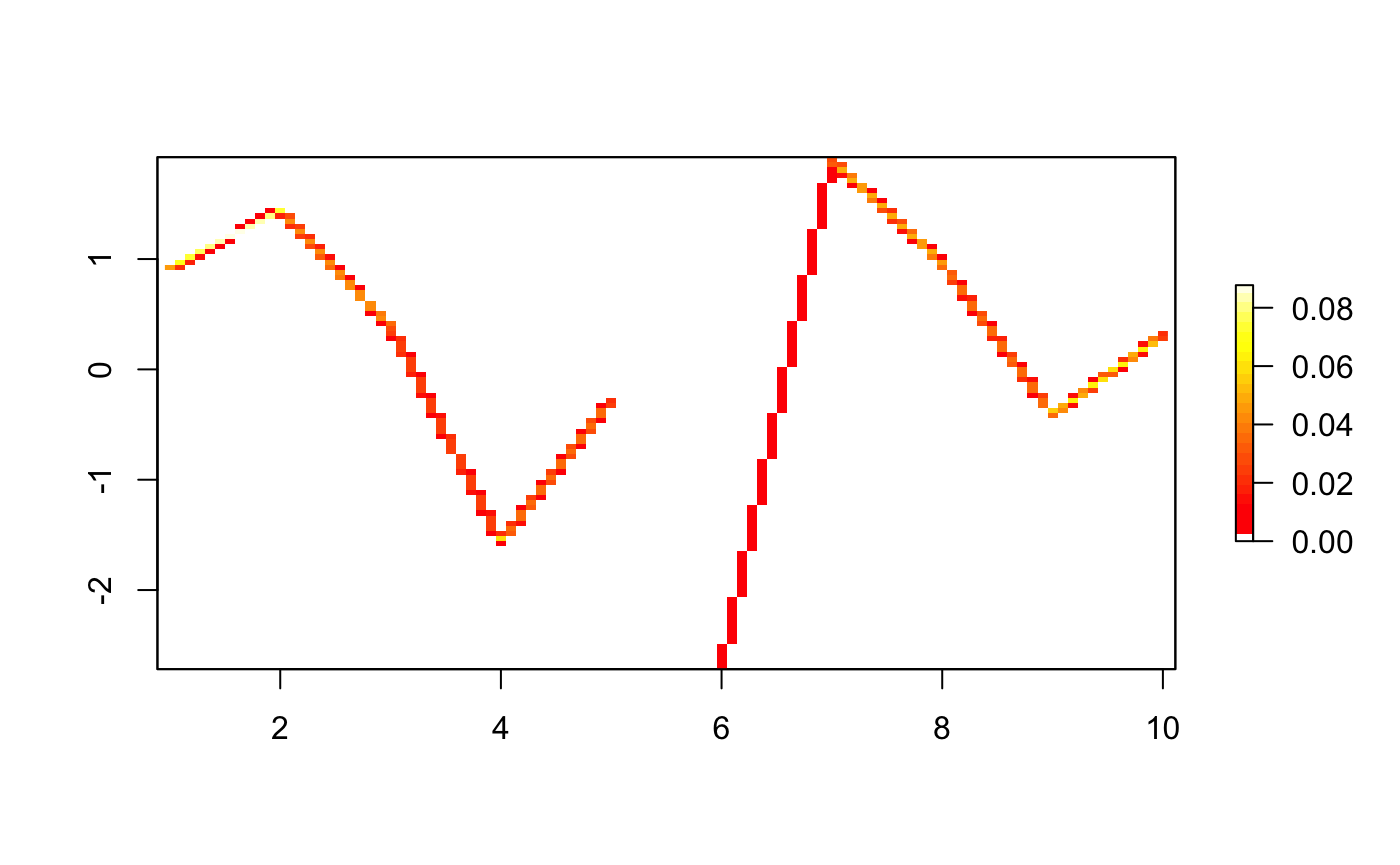
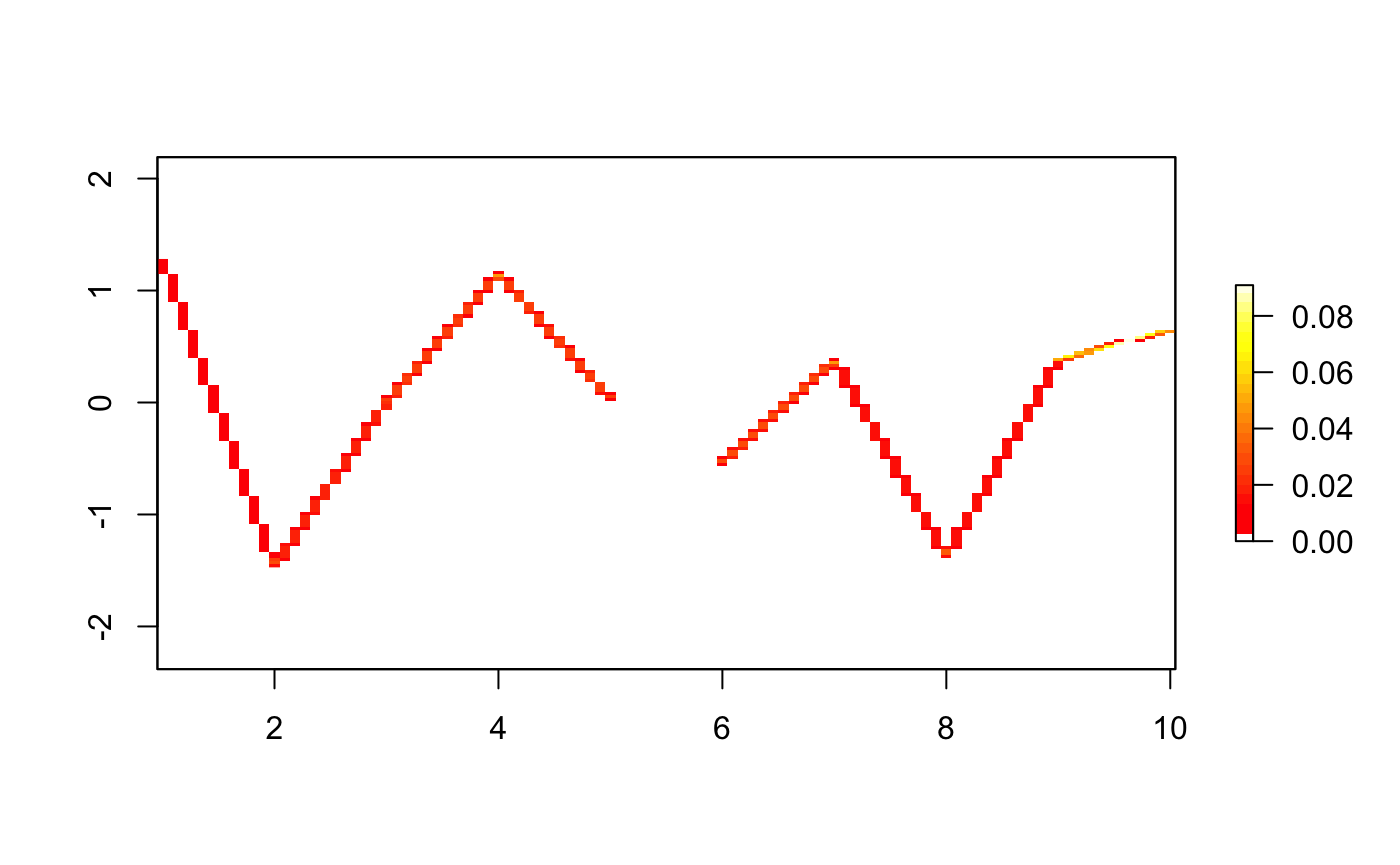
Built site for trip: 1.7.1@7558c05

diff --git a/reference/trip-class.html b/reference/trip-class.html
@@ -182,11 +182,11 @@ contains columns of at least those specified by <code>TOR.columns</code>.</p>
 <span class='fu'><a href='https://rdrr.io/r/base/summary.html'>summary</a></span>(<span class='no'>tr</span>)</div><div class='output co'>#&gt; 
 #&gt; Object of class trip
 #&gt;   tripID ("id") No.Records   startTime ("tms")     endTime ("tms") tripDuration
-#&gt; 1             1          5 2020-06-15 06:46:11 2020-06-15 06:46:15       4 secs
-#&gt; 2             2          5 2020-06-15 06:46:16 2020-06-15 06:46:20       4 secs
+#&gt; 1             1          5 2020-06-15 06:56:35 2020-06-15 06:56:39       4 secs
+#&gt; 2             2          5 2020-06-15 06:56:40 2020-06-15 06:56:44       4 secs
 #&gt;   tripDistance meanSpeed maxSpeed
 #&gt; 1     9.039498  8135.548 11136.84
-#&gt; 2     7.197242  6477.517 10840.37
+#&gt; 2     7.197242  6477.518 10840.37
 #&gt; 
 #&gt; Total trip duration: 8 seconds (0 hours, 8 seconds)
 #&gt; 
@@ -202,36 +202,36 @@ contains columns of at least those specified by <code>TOR.columns</code>.</p>
 #&gt; Number of points: 10
 #&gt; Data attributes:
 #&gt;       tms                      id   
-#&gt;  Min.   :2020-06-15 06:46:11   1:5  
-#&gt;  1st Qu.:2020-06-15 06:46:14   2:5  
-#&gt;  Median :2020-06-15 06:46:16        
-#&gt;  Mean   :2020-06-15 06:46:16        
-#&gt;  3rd Qu.:2020-06-15 06:46:18        
-#&gt;  Max.   :2020-06-15 06:46:20        
+#&gt;  Min.   :2020-06-15 06:56:35   1:5  
+#&gt;  1st Qu.:2020-06-15 06:56:38   2:5  
+#&gt;  Median :2020-06-15 06:56:40        
+#&gt;  Mean   :2020-06-15 06:56:40        
+#&gt;  3rd Qu.:2020-06-15 06:56:42        
+#&gt;  Max.   :2020-06-15 06:56:44        
 #&gt; </div><div class='input'><span class='fu'><a href='https://rdrr.io/r/base/plot.html'>plot</a></span>(<span class='no'>tr</span>)</div><div class='input'><span class='fu'><a href='https://rdrr.io/r/graphics/lines.html'>lines</a></span>(<span class='no'>tr</span>)</div><div class='img'><img src='trip-class-1.png' alt='' width='700' height='433' /></div><div class='input'>
 <span class='fu'><a href='https://rdrr.io/r/base/dim.html'>dim</a></span>(<span class='no'>tr</span>)</div><div class='output co'>#&gt; [1] 10  2</div><div class='input'><span class='fu'><a href='https://rdrr.io/r/base/names.html'>names</a></span>(<span class='no'>tr</span>)</div><div class='output co'>#&gt; [1] "tms" "id" </div><div class='input'><span class='fu'><a href='https://rdrr.io/r/base/subset.html'>subset</a></span>(<span class='no'>tr</span>, <span class='no'>id</span> <span class='kw'>==</span> <span class='st'>"2"</span>)</div><div class='output co'>#&gt; 
 #&gt; Object of class trip
 #&gt;   tripID ("id") No.Records   startTime ("tms")     endTime ("tms") tripDuration
-#&gt; 1             2          5 2020-06-15 06:46:16 2020-06-15 06:46:20       4 secs
+#&gt; 1             2          5 2020-06-15 06:56:40 2020-06-15 06:56:44       4 secs
 #&gt; 
 #&gt;   data.columns data.class                  
 #&gt; 1          tms    POSIXct **trip DateTime**
 #&gt; 2           id     factor **trip ID**      
 #&gt; </div><div class='input'><span class='fu'><a href='https://rdrr.io/r/base/as.data.frame.html'>as.data.frame</a></span>(<span class='no'>tr</span>)</div><div class='output co'>#&gt;     x          y                 tms id
-#&gt; 1   1 -0.9627164 2020-06-15 06:46:11  1
-#&gt; 2   2 -2.6343717 2020-06-15 06:46:12  1
-#&gt; 3   3  0.2931122 2020-06-15 06:46:13  1
-#&gt; 4   4 -2.2314015 2020-06-15 06:46:14  1
-#&gt; 5   5 -1.4281767 2020-06-15 06:46:15  1
-#&gt; 6   6  1.5429442 2020-06-15 06:46:16  2
-#&gt; 7   7  1.1408577 2020-06-15 06:46:17  2
-#&gt; 8   8  0.5898365 2020-06-15 06:46:18  2
-#&gt; 9   9 -2.2504806 2020-06-15 06:46:19  2
-#&gt; 10 10 -0.5572741 2020-06-15 06:46:20  2</div><div class='input'>
+#&gt; 1   1 -0.9627164 2020-06-15 06:56:35  1
+#&gt; 2   2 -2.6343717 2020-06-15 06:56:36  1
+#&gt; 3   3  0.2931122 2020-06-15 06:56:37  1
+#&gt; 4   4 -2.2314015 2020-06-15 06:56:38  1
+#&gt; 5   5 -1.4281767 2020-06-15 06:56:39  1
+#&gt; 6   6  1.5429442 2020-06-15 06:56:40  2
+#&gt; 7   7  1.1408577 2020-06-15 06:56:41  2
+#&gt; 8   8  0.5898365 2020-06-15 06:56:42  2
+#&gt; 9   9 -2.2504806 2020-06-15 06:56:43  2
+#&gt; 10 10 -0.5572741 2020-06-15 06:56:44  2</div><div class='input'>
 <span class='no'>tr</span>[<span class='fl'>1</span>:<span class='fl'>3</span>, ]</div><div class='output co'>#&gt; 
 #&gt; Object of class trip
 #&gt;   tripID ("id") No.Records   startTime ("tms")     endTime ("tms") tripDuration
-#&gt; 1             1          3 2020-06-15 06:46:11 2020-06-15 06:46:13       2 secs
+#&gt; 1             1          3 2020-06-15 06:56:35 2020-06-15 06:56:37       2 secs
 #&gt; 
 #&gt;   data.columns data.class                  
 #&gt; 1          tms    POSIXct **trip DateTime**
@@ -243,12 +243,12 @@ contains columns of at least those specified by <code>TOR.columns</code>.</p>
 #&gt; crs         : +proj=laea +ellps=sphere 
 #&gt; variables   : 1
 #&gt; names       :              tms 
-#&gt; min values  : 1592203571.89747 
-#&gt; max values  : 1592203580.89747 </div><div class='input'><span class='no'>tr</span><span class='kw'>[[</span><span class='fl'>1</span>]]</div><div class='output co'>#&gt;  [1] "2020-06-15 06:46:11 UTC" "2020-06-15 06:46:12 UTC"
-#&gt;  [3] "2020-06-15 06:46:13 UTC" "2020-06-15 06:46:14 UTC"
-#&gt;  [5] "2020-06-15 06:46:15 UTC" "2020-06-15 06:46:16 UTC"
-#&gt;  [7] "2020-06-15 06:46:17 UTC" "2020-06-15 06:46:18 UTC"
-#&gt;  [9] "2020-06-15 06:46:19 UTC" "2020-06-15 06:46:20 UTC"</div><div class='input'>
+#&gt; min values  : 1592204195.81934 
+#&gt; max values  : 1592204204.81934 </div><div class='input'><span class='no'>tr</span><span class='kw'>[[</span><span class='fl'>1</span>]]</div><div class='output co'>#&gt;  [1] "2020-06-15 06:56:35 UTC" "2020-06-15 06:56:36 UTC"
+#&gt;  [3] "2020-06-15 06:56:37 UTC" "2020-06-15 06:56:38 UTC"
+#&gt;  [5] "2020-06-15 06:56:39 UTC" "2020-06-15 06:56:40 UTC"
+#&gt;  [7] "2020-06-15 06:56:41 UTC" "2020-06-15 06:56:42 UTC"
+#&gt;  [9] "2020-06-15 06:56:43 UTC" "2020-06-15 06:56:44 UTC"</div><div class='input'>
 
 
 </div></pre>

diff --git a/articles/trip.html b/articles/trip.html
@@ -118,11 +118,11 @@
 <pre><code>## 
 ## Object of class trip
 ##   tripID ("id") No.Records   startTime ("tms")     endTime ("tms") tripDuration
-## 1             1          5 2020-06-15 06:46:52 2020-06-15 06:46:56       4 secs
-## 2             2          5 2020-06-15 06:46:57 2020-06-15 06:47:01       4 secs
+## 1             1          5 2020-06-15 06:57:15 2020-06-15 06:57:19       4 secs
+## 2             2          5 2020-06-15 06:57:20 2020-06-15 06:57:24       4 secs
 ##   tripDistance meanSpeed  maxSpeed
-## 1     710.2880  639259.2  872368.7
-## 2     997.9765  898178.8 1872070.7
+## 1     853.1530  767837.7 1157044.5
+## 2     713.3185  641986.7  806041.7
 ## 
 ## Total trip duration: 8 seconds (0 hours, 8 seconds)
 ## 
@@ -132,18 +132,18 @@
 ## Coordinates:
 ##         min       max
 ## x  1.000000 10.000000
-## y -2.693765  1.900153
+## y -1.458636  1.268135
 ## Is projected: FALSE 
 ## proj4string : [+proj=longlat +datum=WGS84]
 ## Number of points: 10
 ## Data attributes:
 ##       tms                      id   
-##  Min.   :2020-06-15 06:46:52   1:5  
-##  1st Qu.:2020-06-15 06:46:54   2:5  
-##  Median :2020-06-15 06:46:56        
-##  Mean   :2020-06-15 06:46:56        
-##  3rd Qu.:2020-06-15 06:46:59        
-##  Max.   :2020-06-15 06:47:01</code></pre>
+##  Min.   :2020-06-15 06:57:15   1:5  
+##  1st Qu.:2020-06-15 06:57:17   2:5  
+##  Median :2020-06-15 06:57:20        
+##  Mean   :2020-06-15 06:57:20        
+##  3rd Qu.:2020-06-15 06:57:22        
+##  Max.   :2020-06-15 06:57:24</code></pre>
 <p>(There may be only one group, but we have to be explicit, with a column that identifies at least one group).</p>
 <p>When a print or summary is made the data are presented in terms of their grouping, with some handy summary values. When converting to <code>sf</code> or <code>sp</code> form as lines these summary values are recorded with each “multi”-line.</p>
 </div>

diff --git a/reference/trip-methods.html b/reference/trip-methods.html
@@ -263,8 +263,8 @@ speed filtering and spatial time spent gridding.</p></div>
 <span class='fu'>trip</span>(<span class='no'>d</span>)</div><div class='output co'>#&gt; <span class='warning'>Warning: input looks like longitude/latitude data, assuming +proj=longlat +datum=WGS84</span></div><div class='output co'>#&gt; 
 #&gt; Object of class trip
 #&gt;   tripID ("id") No.Records   startTime ("tms")     endTime ("tms") tripDuration
-#&gt; 1             1          5 2020-06-15 06:46:33 2020-06-15 06:46:37       4 secs
-#&gt; 2             2          5 2020-06-15 06:46:38 2020-06-15 06:46:42       4 secs
+#&gt; 1             1          5 2020-06-15 06:56:56 2020-06-15 06:57:00       4 secs
+#&gt; 2             2          5 2020-06-15 06:57:01 2020-06-15 06:57:05       4 secs
 #&gt; 
 #&gt;   data.columns data.class                  
 #&gt; 1          tms    POSIXct **trip DateTime**
@@ -281,8 +281,8 @@ speed filtering and spatial time spent gridding.</p></div>
 (<span class='no'>tr</span> <span class='kw'>&lt;-</span> <span class='fu'>trip</span>(<span class='no'>d</span>, <span class='fu'><a href='https://rdrr.io/r/base/c.html'>c</a></span>(<span class='st'>"tms"</span>, <span class='st'>"id"</span>)))</div><div class='output co'>#&gt; 
 #&gt; Object of class trip
 #&gt;   tripID ("id") No.Records   startTime ("tms")     endTime ("tms") tripDuration
-#&gt; 1             1          5 2020-06-15 06:46:33 2020-06-15 06:46:37       4 secs
-#&gt; 2             2          5 2020-06-15 06:46:38 2020-06-15 06:46:42       4 secs
+#&gt; 1             1          5 2020-06-15 06:56:56 2020-06-15 06:57:00       4 secs
+#&gt; 2             2          5 2020-06-15 06:57:01 2020-06-15 06:57:05       4 secs
 #&gt; 
 #&gt;   data.columns data.class                  
 #&gt; 1          tms    POSIXct **trip DateTime**

diff --git a/reference/as.Other.html b/reference/as.Other.html
@@ -216,11 +216,11 @@ the start and end times, duration and the ID of the segment.</p>
 <span class='fu'><a href='https://rdrr.io/r/base/summary.html'>summary</a></span>(<span class='no'>tr</span>)</div><div class='output co'>#&gt; 
 #&gt; Object of class trip
 #&gt;   tripID ("id") No.Records   startTime ("tms")     endTime ("tms") tripDuration
-#&gt; 1             1          5 2020-06-15 06:44:39 2020-06-15 06:44:43       4 secs
-#&gt; 2             2          5 2020-06-15 06:44:44 2020-06-15 06:44:48       4 secs
+#&gt; 1             1          5 2020-06-15 06:55:05 2020-06-15 06:55:09       4 secs
+#&gt; 2             2          5 2020-06-15 06:55:10 2020-06-15 06:55:14       4 secs
 #&gt;   tripDistance meanSpeed maxSpeed
 #&gt; 1     7.966395  7169.755 8186.395
-#&gt; 2     6.502791  5852.512 9518.949
+#&gt; 2     6.502791  5852.511 9518.949
 #&gt; 
 #&gt; Total trip duration: 8 seconds (0 hours, 8 seconds)
 #&gt; 
@@ -236,12 +236,12 @@ the start and end times, duration and the ID of the segment.</p>
 #&gt; Number of points: 10
 #&gt; Data attributes:
 #&gt;       tms                      id   
-#&gt;  Min.   :2020-06-15 06:44:39   1:5  
-#&gt;  1st Qu.:2020-06-15 06:44:42   2:5  
-#&gt;  Median :2020-06-15 06:44:44        
-#&gt;  Mean   :2020-06-15 06:44:44        
-#&gt;  3rd Qu.:2020-06-15 06:44:46        
-#&gt;  Max.   :2020-06-15 06:44:48        
+#&gt;  Min.   :2020-06-15 06:55:05   1:5  
+#&gt;  1st Qu.:2020-06-15 06:55:08   2:5  
+#&gt;  Median :2020-06-15 06:55:10        
+#&gt;  Mean   :2020-06-15 06:55:10        
+#&gt;  3rd Qu.:2020-06-15 06:55:12        
+#&gt;  Max.   :2020-06-15 06:55:14        
 #&gt; </div></pre>
   </div>
   <div class="col-md-3 hidden-xs hidden-sm" id="pkgdown-sidebar">
